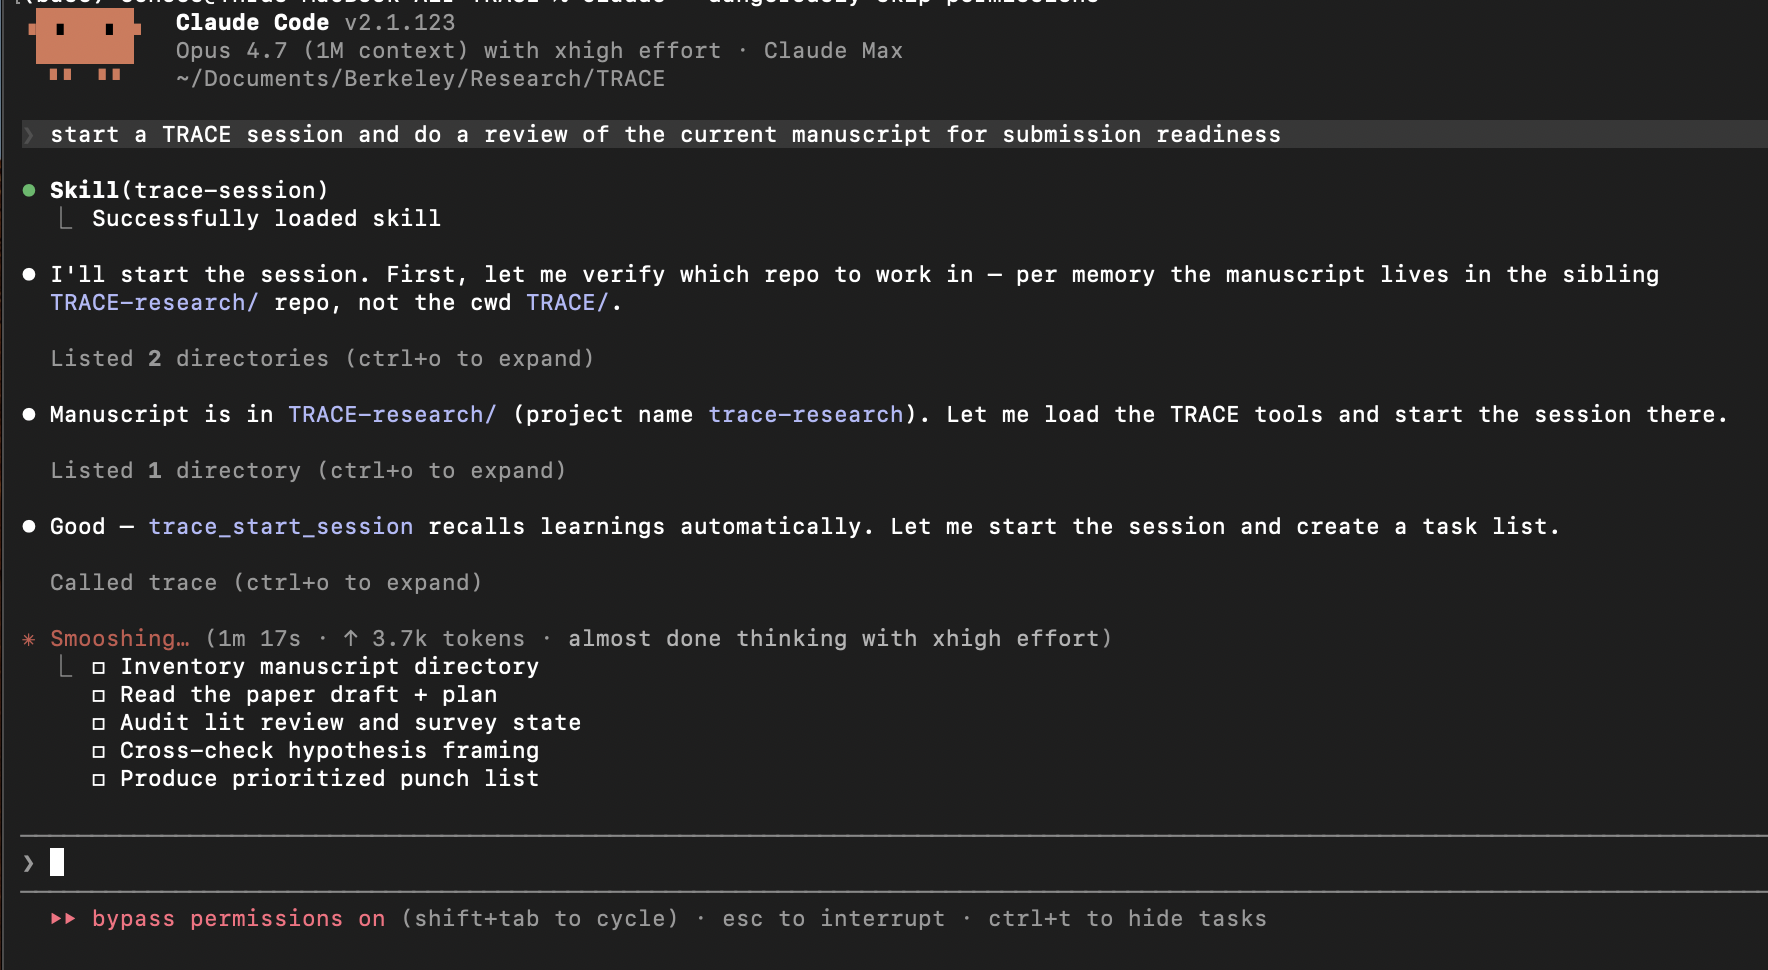
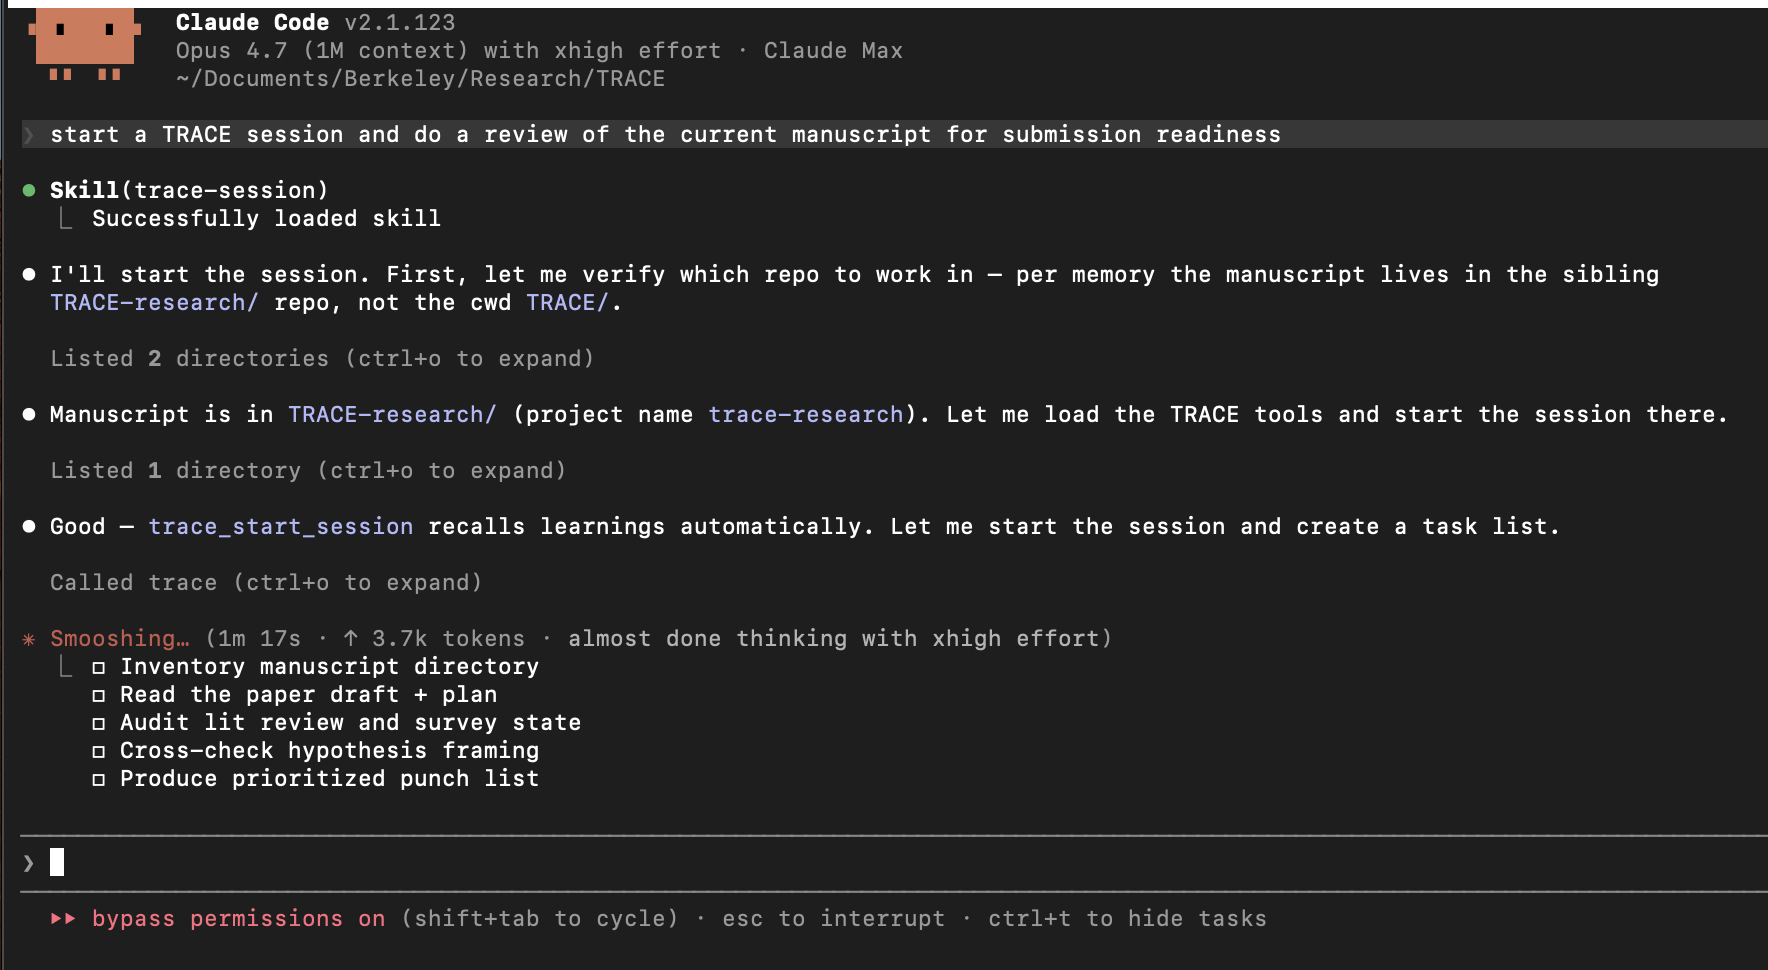
Added real decision chain examples of TRACE JSON output and improved documentation with diverse LLMs mentioned

Changed region(s): [[0.0, 0.0, 1.0, 0.0309]]

diff --git a/README.md b/README.md
@@ -10,9 +10,9 @@ What does the solution to this look like?
   <img src="docs/trace-use-case-3.png" width="650" alt="Claude Code: a single prompt — 'start a TRACE session and review the current manuscript for submission readiness' — produces auto-recalled learnings and a five-item task plan.">
 </p>
 
-1. Ask Claude to start a TRACE session and review the manuscript.
-2. Claude orients across repos using past-session memory.
-3. `trace_start_session` runs, learnings auto-recall, and a task plan emerges.
+1. From inside `TRACE/`, ask Claude to start a session and review the manuscript (which is inside sibling dir, `TRACE-research/`).
+2. Past-session memory makes Claude pivot to that sibling repo before logging anything.
+3. `trace_start_session` runs there, learnings auto-recall, and a five-item task plan emerges.
 
 ## **TRACE: Transparent Recording of AI-assisted Collaboration Experiments**
 
@@ -34,6 +34,13 @@ The need is also moving from norm to regulation. The **EU AI Act** (Articles 12,
 
 Every TRACE decision carries an **actor** (who proposed, who resolved), a **disposition** (proposed → accepted / revised / rejected), a **rationale**, a **suggestion_type** (proactive / requested / collaborative), and an optional `revises_event_id` linking to a prior decision. Decisions form a provenance DAG, not a flat log — a future reader can reconstruct who proposed what, why it landed where it did, and how the approach evolved during the session.
 
+<p align="center">
+  <img src="docs/trace-example-corp-sus-extractor-2.png" width="560"
+       alt="Three TRACE events from a corp-sus-report-extractor session: a human-accepted decision, an AI-proposed alternative logged after rejection, and a correction annotation linking back to the rejection.">
+</p>
+
+Three events from a real `corp-sus-report-extractor` session: a human-proposed scope decision (`evt_002`, accepted), an AI-proposed alternative kept for provenance after rejection (`evt_003`), and a correction annotation linked to the rejection via `corrects_event_ids` (`evt_004`). Rejected alternatives and corrections are first-class events — they don't get discarded.
+
 ## Preliminary deployment results
 
 Four weeks since the v0.3 release (2026-03-19 → present), TRACE has been used across **5 research workflows**:
@@ -54,7 +61,7 @@ Contributions: **73% human-directed → AI-executed, 20% collaborative-directed,
 ## Architecture
 
 ```
-AI Client (Claude Code, Claude Desktop, etc.)
+AI Client (any MCP-aware client: Claude Code, Cursor, ChatGPT, Codex, ...)
     |
     +-- connects to: Domain MCP Server(s)
     |                 (corpus search, NLP pipeline, data retrieval, etc.)
@@ -77,7 +84,7 @@ AI Client (Claude Code, Claude Desktop, etc.)
 uv pip install -e ".[dev]"
 ```
 
-### Configure for Claude Code
+### Configure your MCP client
 
 Add to your project's `.mcp.json`:
 

diff --git a/docs/specification.md b/docs/specification.md
@@ -123,13 +123,15 @@ An actor is any entity that performs actions within a session.
 | Field | Type | Required | Description |
 |-------|------|----------|-------------|
 | `type` | enum | MUST | One of: `"human"`, `"ai"`, `"system"`. |
-| `id` | string | MUST | Unique identifier within the session (e.g., `"researcher-jane"`, `"claude-sonnet-4"`). |
+| `id` | string | MUST | Unique identifier within the session (e.g., `"researcher-jane"`, `"claude-opus-4.7"`). |
 | `role` | string | MAY | Role in the workflow (e.g., `"lead"`, `"assistant"`, `"reviewer"`). |
 
 **Actor types**:
 - `human` — A person making decisions, providing feedback, or doing work.
 - `ai` — An AI model or agent performing actions, proposing decisions, or generating outputs.
 - `system` — An automated system acting without direct human or AI agency (e.g., a CI pipeline, a scheduled job).
+
+**AI actor IDs** are typically the model identifier published by the client's vendor. The TRACE specification is vendor-neutral; common examples spanning multiple organizations include `"claude-opus-4.7"` (Anthropic), `"gpt-5.5"` (OpenAI), `"gemini-3-pro"` (Google), `"llama-4-405b"` (Meta), and `"deepseek-r1"` (DeepSeek). Producers SHOULD use the canonical model ID from their AI client.
 
 ### 3.4 Event
 
@@ -510,7 +512,7 @@ When storing session documents to files, implementations SHOULD use atomic write
     "description": "Analyzing adaptation language shifts in IPCC AR6",
     "participants": [
       {"type": "human", "id": "researcher-jane", "role": "lead"},
-      {"type": "ai", "id": "claude-sonnet-4", "role": "assistant"}
+      {"type": "ai", "id": "claude-opus-4.7", "role": "assistant"}
     ],
     "tags": ["ipcc", "adaptation", "nlp"]
   },
@@ -521,11 +523,11 @@ When storing session documents to files, implementations SHOULD use atomic write
       "timestamp": "2026-02-05T14:32:00Z",
       "session_id": "trace_20260205_a1b2c3",
       "type": "decision",
-      "actor": {"type": "ai", "id": "claude-sonnet-4"},
+      "actor": {"type": "ai", "id": "claude-opus-4.7"},
       "decision": {
         "description": "Use cosine similarity threshold of 0.85 for passage matching",
         "rationale": "F1=0.78 on validation set at this threshold",
-        "proposed_by": {"type": "ai", "id": "claude-sonnet-4"},
+        "proposed_by": {"type": "ai", "id": "claude-opus-4.7"},
         "disposition": "proposed",
         "suggestion_type": "proactive",
         "tags": ["methodology", "threshold"]
@@ -559,7 +561,7 @@ When storing session documents to files, implementations SHOULD use atomic write
       "timestamp": "2026-02-05T14:40:00Z",
       "session_id": "trace_20260205_a1b2c3",
       "type": "tool_call",
-      "actor": {"type": "ai", "id": "claude-sonnet-4"},
+      "actor": {"type": "ai", "id": "claude-opus-4.7"},
       "tool_call": {
         "server": "corpus-search",
         "name": "search_passages",
@@ -574,7 +576,7 @@ When storing session documents to files, implementations SHOULD use atomic write
       "timestamp": "2026-02-05T14:42:00Z",
       "session_id": "trace_20260205_a1b2c3",
       "type": "annotation",
-      "actor": {"type": "ai", "id": "claude-sonnet-4"},
+      "actor": {"type": "ai", "id": "claude-opus-4.7"},
       "annotation": {
         "category": "gotcha",
         "content": "IPCC AR5 PDFs have inconsistent Unicode encoding — ligatures (fi, fl) are sometimes split into separate characters, causing keyword matching to miss passages.",
@@ -586,7 +588,7 @@ When storing session documents to files, implementations SHOULD use atomic write
       "timestamp": "2026-02-05T15:30:00Z",
       "session_id": "trace_20260205_a1b2c3",
       "type": "contribution",
-      "actor": {"type": "ai", "id": "claude-sonnet-4"},
+      "actor": {"type": "ai", "id": "claude-opus-4.7"},
       "contribution": {
         "description": "Implemented cosine similarity function with Unicode normalization",
         "artifact": "src/similarity.py",